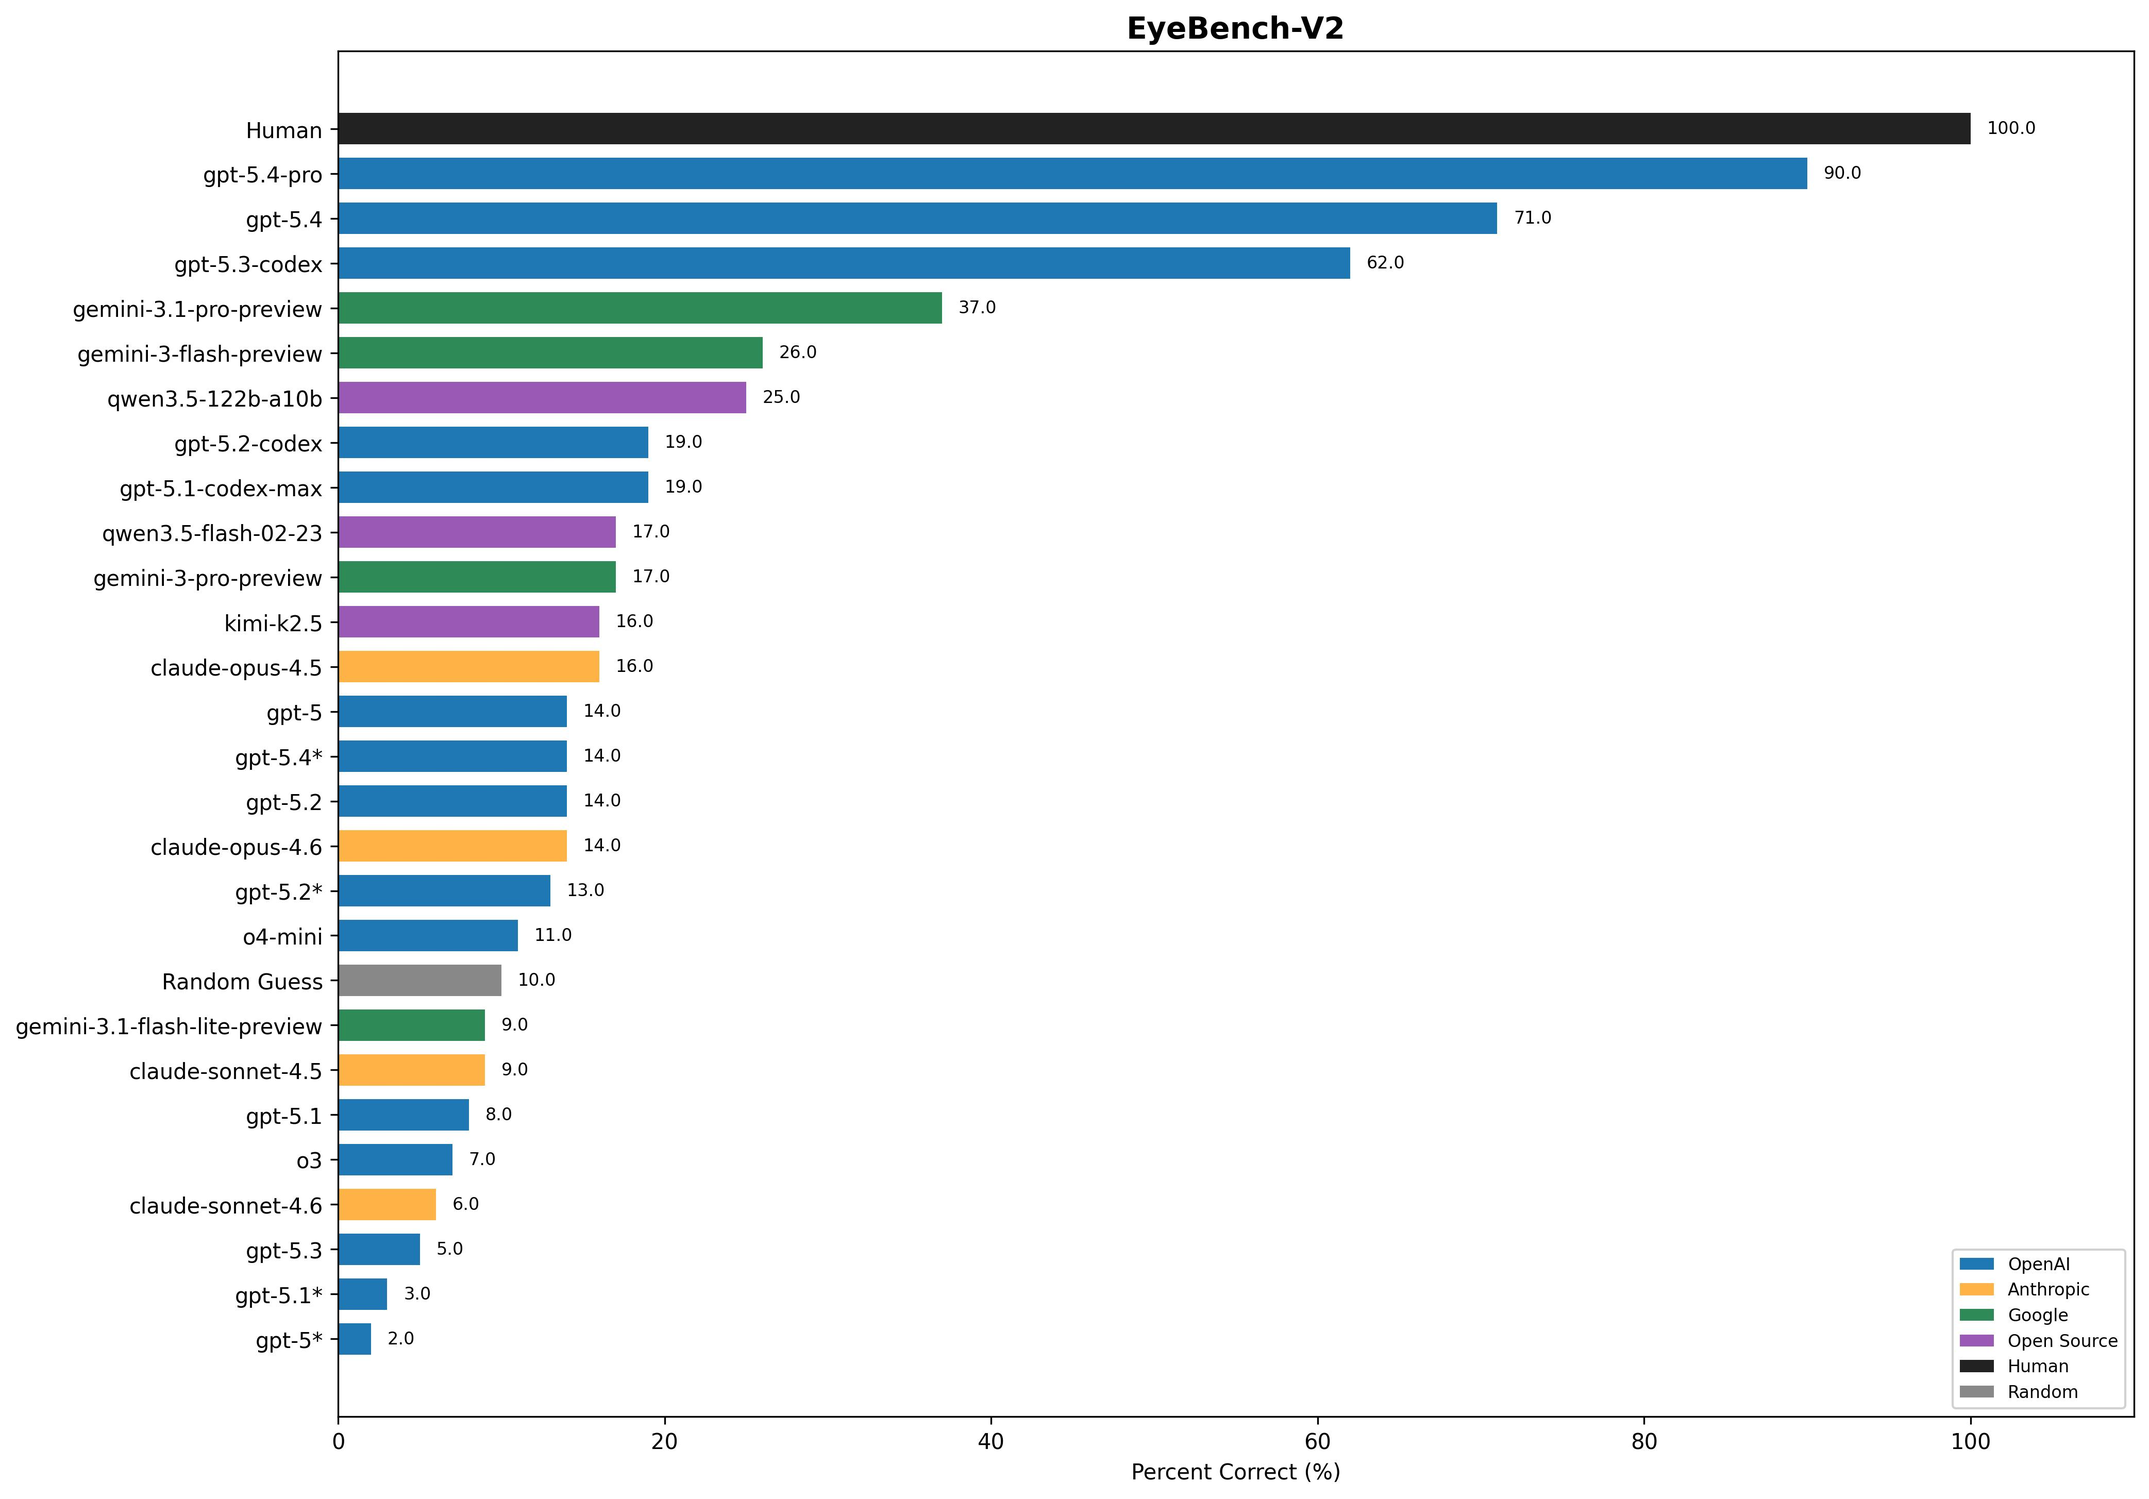
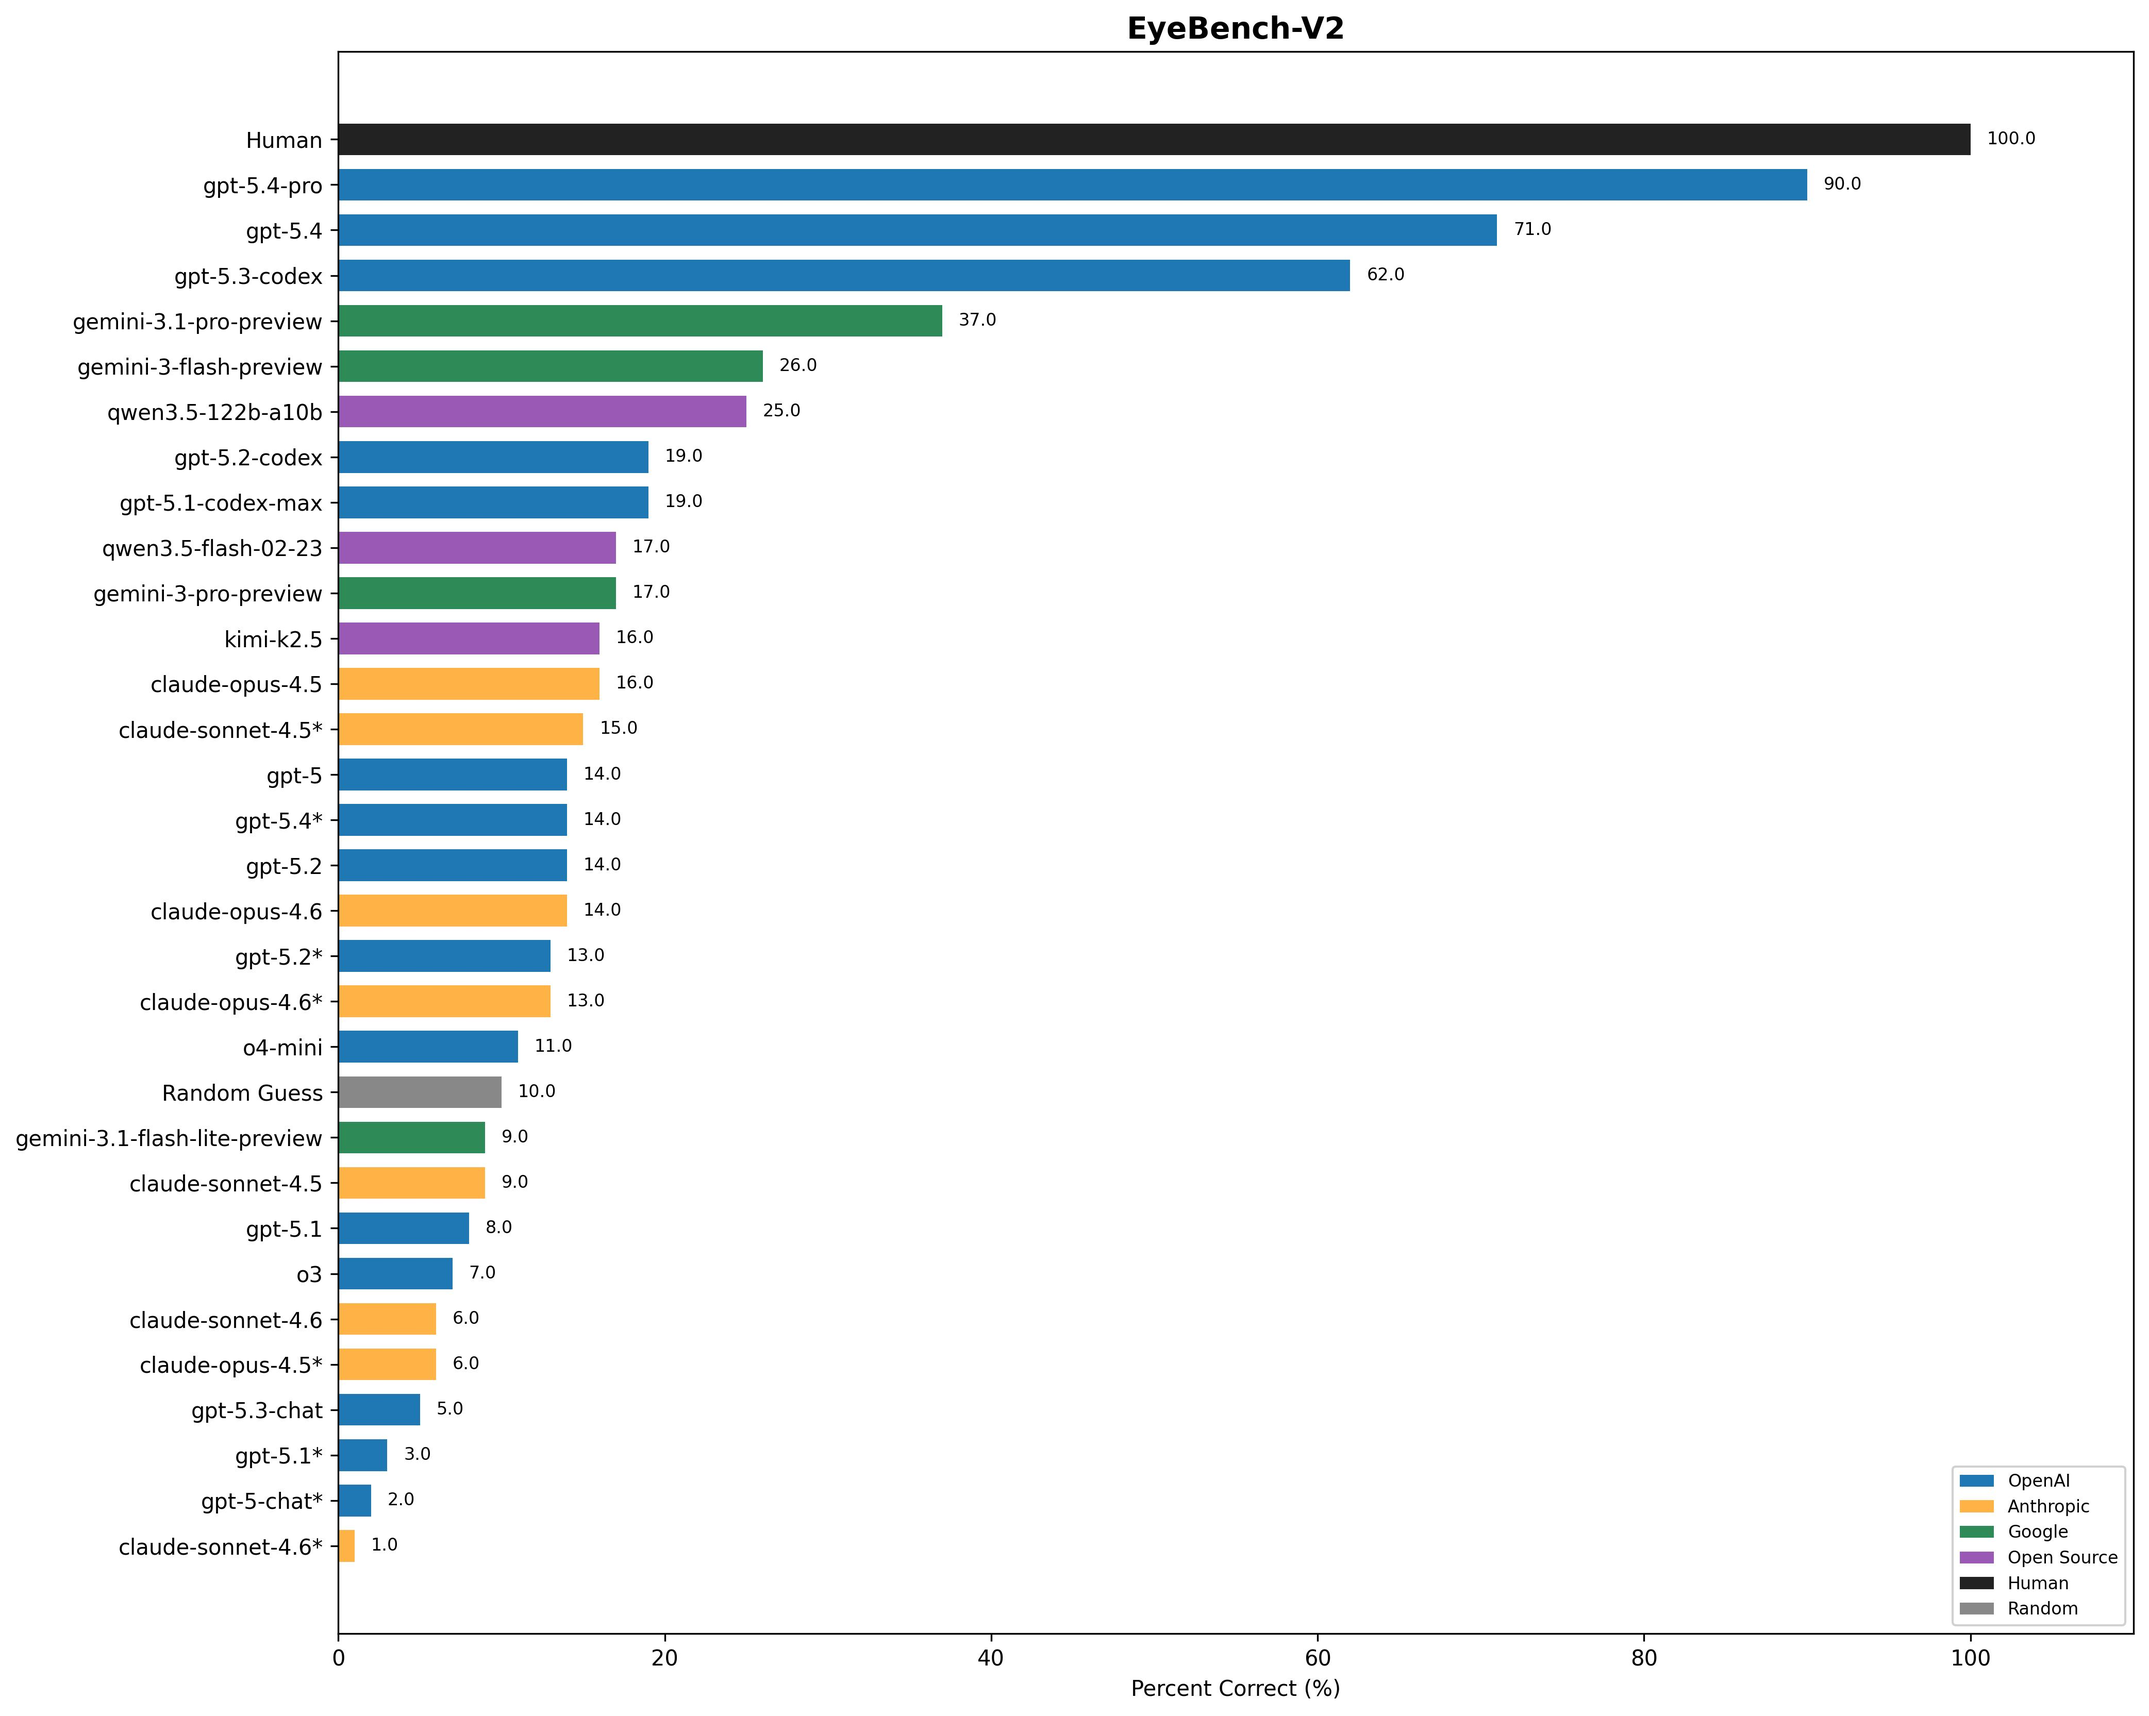
include all no-reasoning runs in benchmark graph
Remove prune_superseded_unset_reasoning_runs so the graph matches
the web UI — no-reasoning runs (marked with *) are now shown.
Regenerate all graphs.

Made-with: Cursor

diff --git a/scripts/graph-maker.py b/scripts/graph-maker.py
@@ -582,7 +582,7 @@ def main() -> None:
     overall_cost_output = base_dir / "overall_cost_vs_accuracy.jpg"
     time_output = base_dir / "reasoning_time_vs_performance.jpg"
 
-    data = prune_superseded_unset_reasoning_runs(load_run_metrics(runs_dir))
+    data = load_run_metrics(runs_dir)
     current_slugs = {m.slug for m in data}
     state_path = Path(args.state).resolve() if args.state else (base_dir / ".graph-maker-state.json")
     prev_slugs = load_seen_slugs(state_path)
